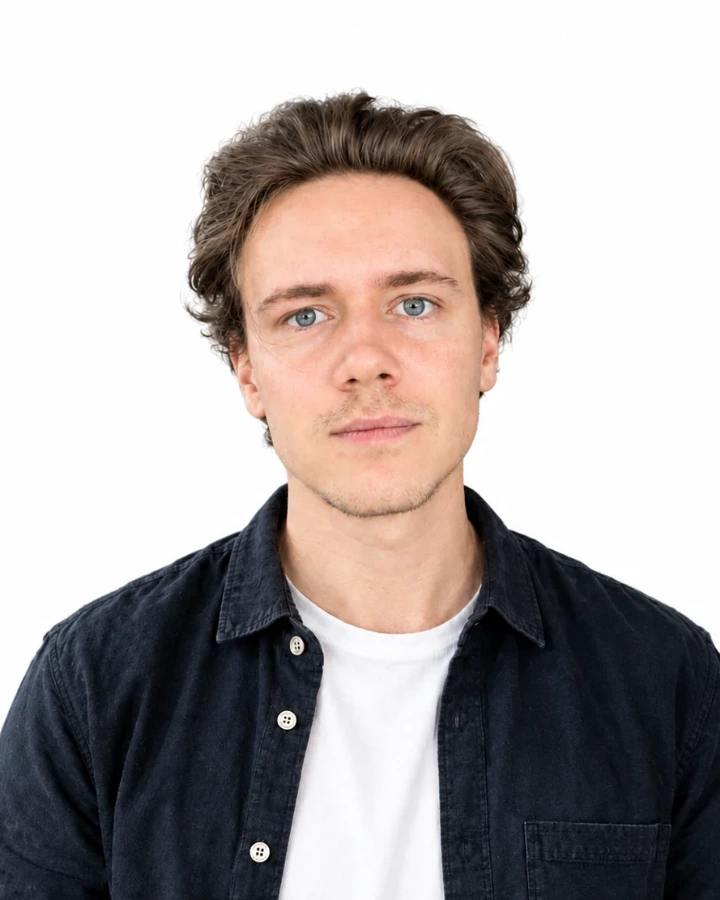
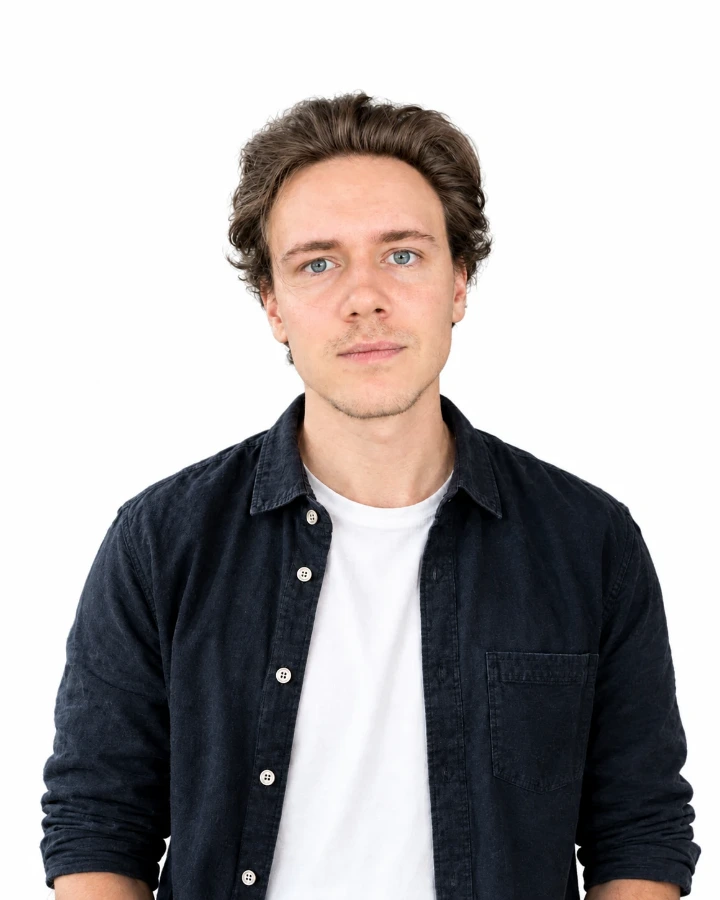
Уравнять размер голов на портретах и переставить карточки команды
Порядок слева направо: Арсений, Матвей, Борис, Никита.

Все четыре снимка перекадрированы под одну ширину головы — около 88 px в
карточке вместо прежнего разброса 85–115. Кадр стал заметно свободнее.
Макушки на одной высоте, разброс 2 px.

88 px — это предел, который задаёт самая ограниченная фотография из
четырёх (Матвей). Отдалить сильнее нельзя: снизу пришлось бы добавлять
пустое поле, а оно видно на мобильном.

Рамка портрета на мобильном стала 180 px вместо 220 — ближе к квадрату,
как на остальных ширинах. Раньше только там кадр показывался почти
целиком по высоте, и любой запас снизу вылезал наружу. Теперь карточка
прячет 12,9% низа даже в самом жёстком случае, и добавленное поле не
видно нигде.

Claude-Session: https://claude.ai/code/session_01EJhTBfDuUdkSFjF86i9JtA

diff --git a/client/src/content/team.ts b/client/src/content/team.ts
@@ -14,6 +14,26 @@ export const teamIntro = {
  */
 export const team: TeamMember[] = [
   {
+    id: "D-04",
+    name: "Арсений",
+    role: "FOUNDER / SALES / CLIENT ACQUISITION",
+    bio: "Основатель DMO и первый, с кем вы разговариваете. Отвечает за продажи, поиск и привлечение клиентов, развитие партнёрств.",
+    skills: ["sales", "clients", "partnerships"],
+    portrait: "portrait-d",
+    image: "/team/arseniy.webp",
+    imageAlt: "Арсений — основатель DMO, отвечает за продажи и клиентов",
+  },
+  {
+    id: "D-03",
+    name: "Матвей",
+    role: "PROJECT MANAGEMENT / PROCESS / COMMUNICATION",
+    bio: "10 лет ведёт маркетинговые проекты. Отвечает за то, чтобы договорённости превращались в план работ, сроки и понятный результат, а не в переписку без итога.",
+    skills: ["project", "process", "communication"],
+    portrait: "portrait-c",
+    image: "/team/matvey.webp",
+    imageAlt: "Матвей — проджект-менеджер DMO",
+  },
+  {
     id: "D-01",
     name: "Борис",
     role: "AI / SYSTEMS / AUTOMATION",
@@ -41,25 +61,5 @@ export const team: TeamMember[] = [
     portrait: "portrait-b",
     image: "/team/nikita.webp",
     imageAlt: "Никита — full-stack разработчик DMO",
-  },
-  {
-    id: "D-04",
-    name: "Арсений",
-    role: "FOUNDER / SALES / CLIENT ACQUISITION",
-    bio: "Основатель DMO и первый, с кем вы разговариваете. Отвечает за продажи, поиск и привлечение клиентов, развитие партнёрств.",
-    skills: ["sales", "clients", "partnerships"],
-    portrait: "portrait-d",
-    image: "/team/arseniy.webp",
-    imageAlt: "Арсений — основатель DMO, отвечает за продажи и клиентов",
-  },
-  {
-    id: "D-03",
-    name: "Матвей",
-    role: "PROJECT MANAGEMENT / PROCESS / COMMUNICATION",
-    bio: "10 лет ведёт маркетинговые проекты. Отвечает за то, чтобы договорённости превращались в план работ, сроки и понятный результат, а не в переписку без итога.",
-    skills: ["project", "process", "communication"],
-    portrait: "portrait-c",
-    image: "/team/matvey.webp",
-    imageAlt: "Матвей — проджект-менеджер DMO",
   },
 ];

diff --git a/client/src/index.css b/client/src/index.css
@@ -2243,7 +2243,9 @@ textarea:focus-visible,
     gap: 34px 8px;
   }
   .portrait {
-    height: 220px;
+    /* Рамка держится близко к квадрату, как на десктопе: так низ кадра
+       всегда обрезается и запас, добавленный при перекадрировании, не виден. */
+    height: 180px;
   }
   .person-meta {
     display: block;

diff --git a/client/public/team/README.md b/client/public/team/README.md
@@ -23,8 +23,8 @@
 - формат **720×900** (4:5);
 - **макушка на 10,6% высоты кадра** — то есть примерно в 95 пикселях от
   верхнего края;
-- **ширина головы около 115 px** в отрисованной карточке шириной 316 px —
-  снимок кадрируется «по грудь», без лишнего приближения;
+- **ширина головы около 88 px** в отрисованной карточке шириной 316 px —
+  снимок кадрируется свободно, «по грудь» с запасом вокруг;
 - лицо по центру по горизонтали.
 
 Второй пункт отвечает за вертикальный уровень, третий — за одинаковый размер
@@ -36,6 +36,15 @@
 Тогда `object-fit: cover` ведёт себя одинаково на всех ширинах экрана, и
 головы не разъезжаются по брейкпоинтам. Сдвиг `object-position: center 10%`
 задан в `client/src/index.css` один раз для всех портретов.
+
+Почему именно 88 px: это предел, который задаёт самая «короткая» фотография
+из четырёх. Чтобы отдалить кадр сильнее, снизу пришлось бы добавлять пустое
+поле, а оно видно на мобильном — там карточка показывает нижнюю часть кадра
+почти целиком.
+
+Запас снизу, который карточка прячет: 18% на десктопе, 32% на двухколоночной
+сетке и **12,9% на мобильном** — именно мобильный и ограничивает. Пока
+добавленное поле укладывается в эти 12,9%, его не видно нигде.
 
 Если фотографию невозможно перекадрировать, в `client/src/content/team.ts`
 есть поле `imagePosition` — оно перебивает общее правило для конкретного
